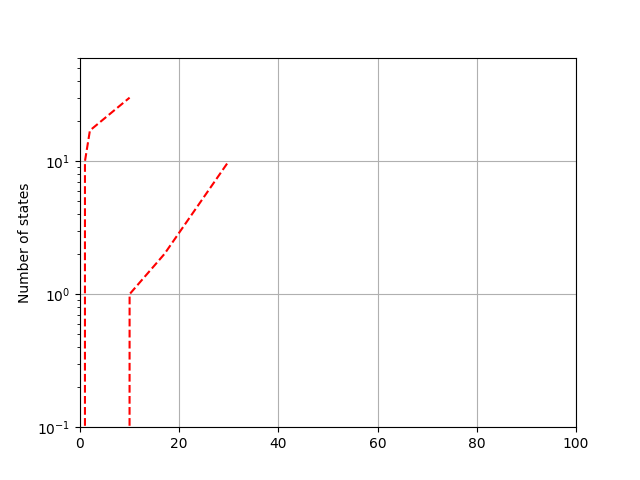
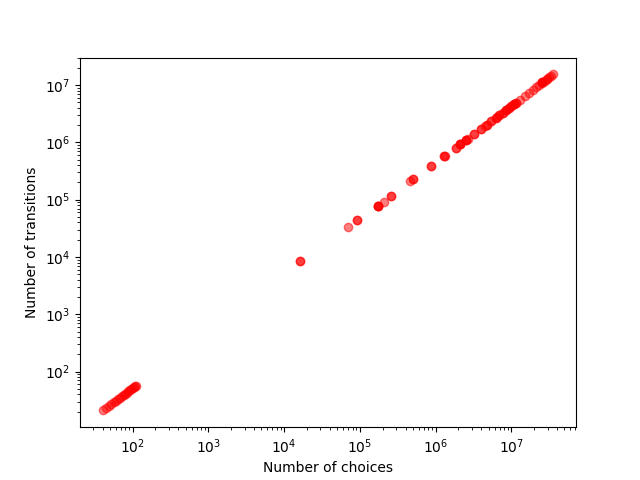
working on plots

diff --git a/Library/Plots/test_plot.py b/Library/Plots/test_plot.py
@@ -13,7 +13,7 @@ class TestPlot(object):
         benchmark = storage.load_latest_benchmark()
 
 
-        self.CreateScatterPlot(benchmark,Statistics.TRANSITIONS,Statistics.STATES)
+        self.CreateScatterPlot(benchmark,Statistics.BRANCHES, Statistics.STATES)
         # number of errors per algorithm
         # number of timeouts
         # check if states, transitions and branches are always the same
@@ -35,7 +35,7 @@ class TestPlot(object):
 
 
 
-        # plt.style.use('_mpl-gallery')
+        # plt.style.use(_mpl-gallery)
 
         # make data
         # x = np.linspace(0, 10, 100)
@@ -49,20 +49,33 @@ class TestPlot(object):
         # ax.set(xlim=(0, 8), xticks=np.arange(1, 8),
         #       ylim=(0, 8), yticks=np.arange(1, 8))
 
-    def CreateScatterPlot(self, benchmark, statisticY, statisticX):
+    def CreateScatterPlot(self, benchmark, statisticX, statisticY):
 
-        dataX = [0, 10, 17, 30]
-        dataY = [0, 1, 2, 10]
+        dataX = []
+        dataY = []
+        for benchmark_sequence in benchmark.benchmark_sequences:
+            for benchmark_instance in benchmark_sequence.benchmark_instances:
+                result = benchmark_instance.results[1]
+                if not result.threw_error:
+                    if statisticX in result.statistics and statisticY in result.statistics:
+                        # print(str(result.statistics[statisticX]) + " "+ str(result.statistics[statisticY]))
+                        dataX.append(result.statistics[statisticX])
+                        dataY.append(result.statistics[statisticY])
+
+        # s = [10, 20, 610, 11]
 
         # plt.show()
 
-        plt.scatter(dataX, dataY,"r--")
-        #plt.title('Tim')
-        plt.ylabel("Time in seconds")
-        plt.ylabel("Number of states")
-        plt.grid(True)
-        #plt.yscale('log')
-        #plt.xscale('log')
-        plt.axis([0, 100, 0.1, 60])
-        plt.savefig('./../Resources/Plots/test_plot.png')
+        plt.scatter(dataX, dataY, c="r", alpha=0.5)
+        # plt.scatter(dataX, dataY,s=s , c="b", alpha=0.5)
+
+        #plt.title(statistics)
+        plt.ylabel("Number of transitions")
+        plt.xlabel("Number of choices")
+        #plt.grid(True)
+        plt.yscale("log")
+        plt.xscale("log")
+        #plt.axis([1, 40000000 , 1,  40000000])
+        #plt.axis([1, 1000, 1, 1000])
+        plt.savefig("./../Resources/Plots/test_plot.png")
 
